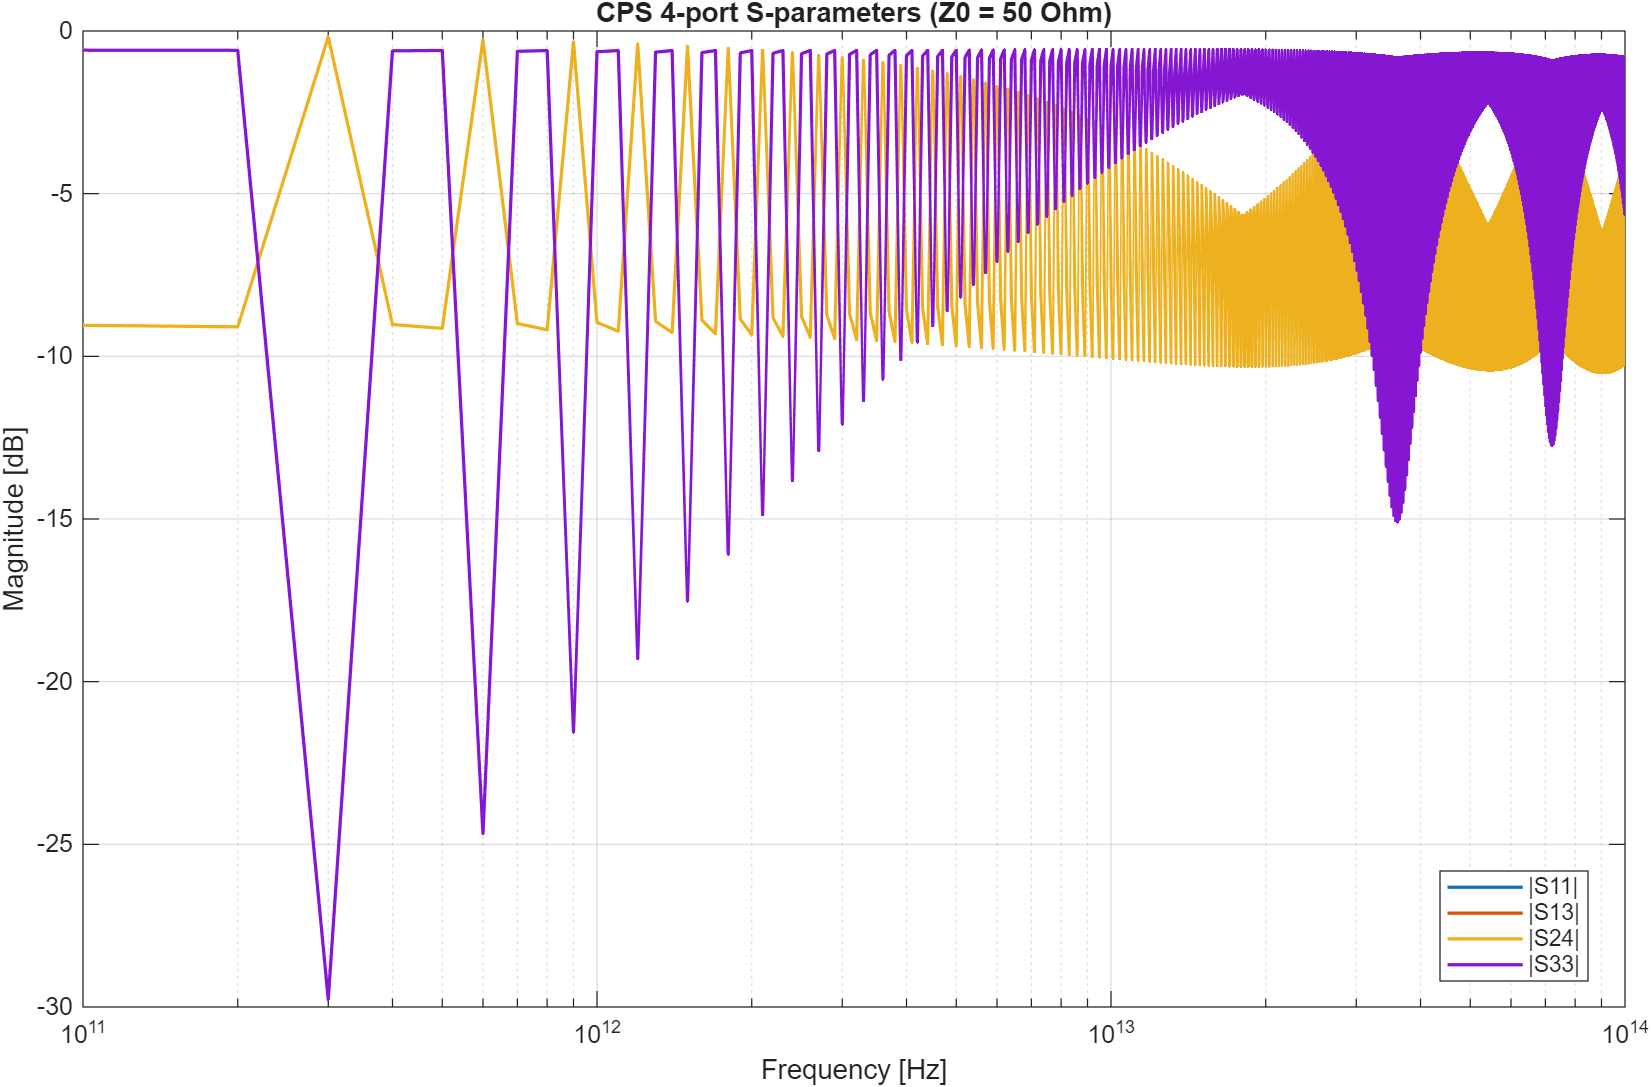
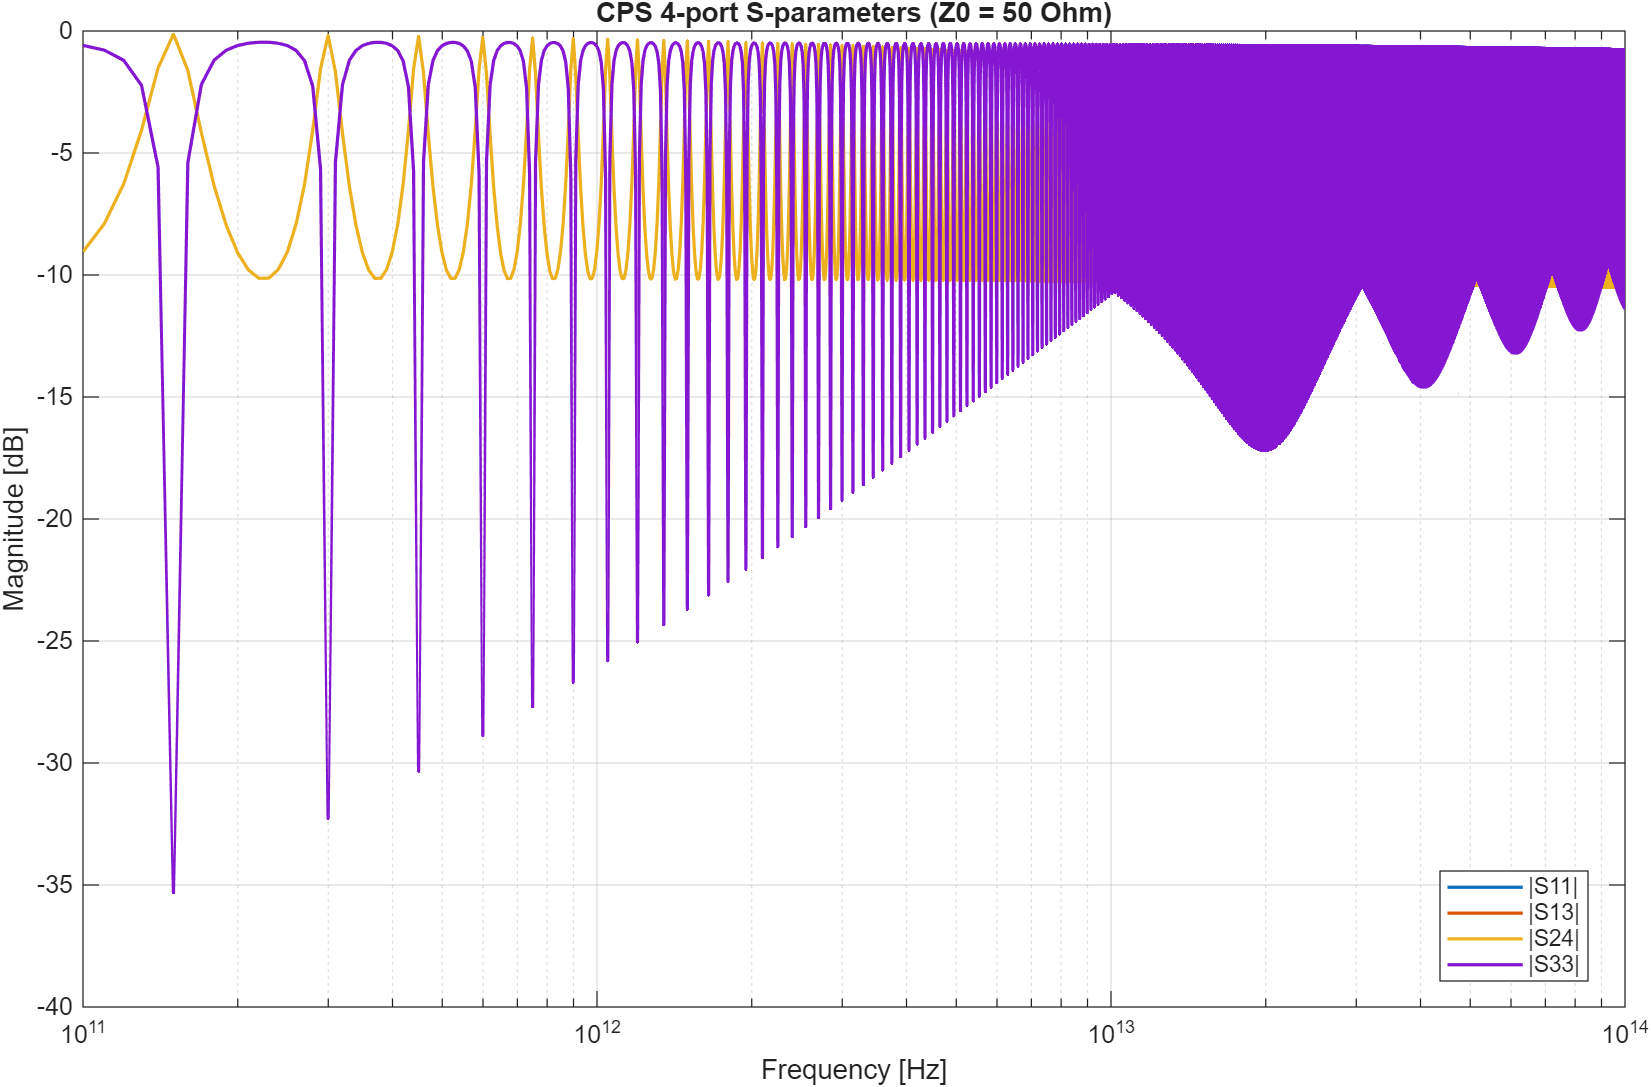
Increase S4P sweep to 10000 points

diff --git a/examples/gaas_gold_cps_20um_gap50um/example_export_s4p.m b/examples/gaas_gold_cps_20um_gap50um/example_export_s4p.m
@@ -22,7 +22,7 @@ sigma_au = 4.10e7; % [S/m]
 % Frequency sweep
 fmin = 100e9;
 fmax = 100e12;
-Nfreq = 1000;
+Nfreq = 10000;
 freq = linspace(fmin, fmax, Nfreq);
 
 % Make root routines visible

diff --git a/examples/gaas_gold_cps_20um_gap50um/README.md b/examples/gaas_gold_cps_20um_gap50um/README.md
@@ -40,7 +40,7 @@ Per esportare gli S-parameters 4 porte in Touchstone standard:
 example_export_s4p
 ```
 
-Questo script genera (configurato per `fmin=100e9`, `fmax=100e12`, `Nfreq=1000`):
+Questo script genera (configurato per `fmin=100e9`, `fmax=100e12`, `Nfreq=10000`):
 
 - `gaas_gold_cps_4port_100GHz_100THz.s4p`
 - `gaas_gold_cps_4port_100GHz_100THz_plot.png`